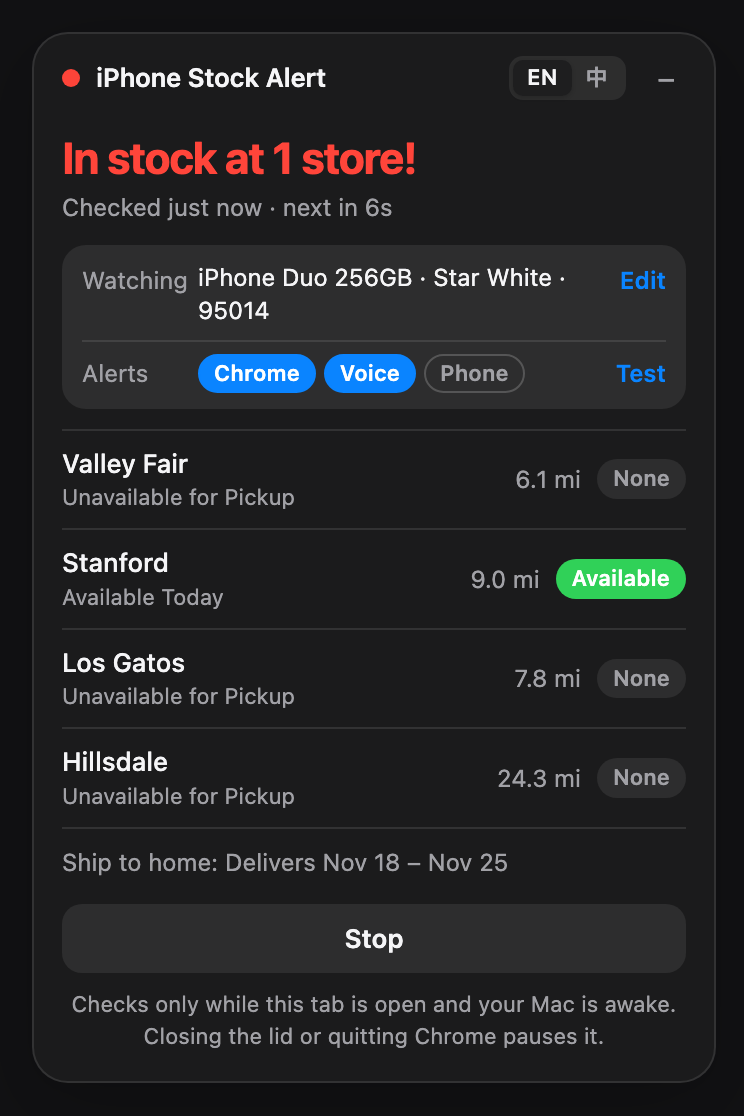
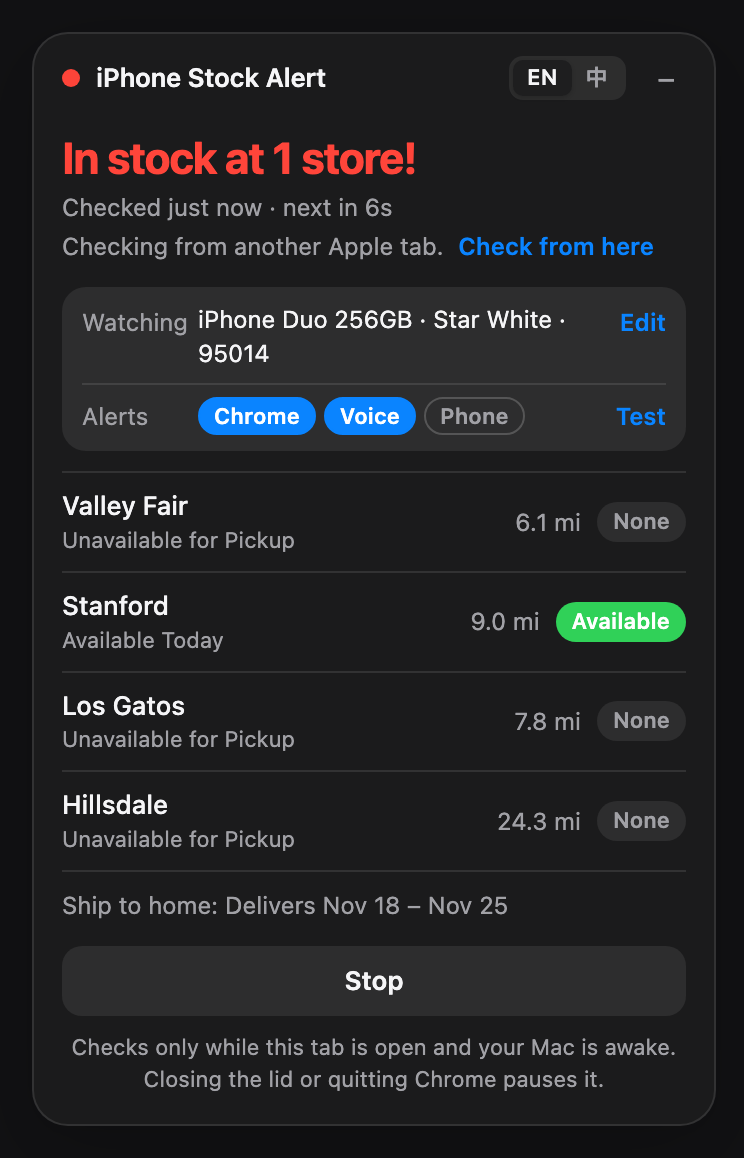
Handle several Apple tabs; use a UUID for the phone topic
- Only one tab runs checks. Other buy pages show the same live results
  and say they're checking from another tab, with "Check from here"
- Closing the checking tab hands over to another open buy page; the
  "monitoring stopped" alert only fires when none is left
- Picking a model on a page moves checking to that page; a page for a
  different iPhone explains what's being watched instead of failing
- The ntfy topic is now iphone-alert-<random UUID>; older short topics
  are replaced when the panel loads

diff --git a/extension/content.js b/extension/content.js
@@ -9,12 +9,15 @@ let models = [];
 const DEFAULT_CHANNELS = { chrome: true, voice: true, phone: false };
 let lang = 'en';
 // lastOk is the latest successful result; result is the latest check, which may have failed.
-const view = { running: false, ringing: false, result: null, lastOk: null, checkedAt: null, okAt: null, nextAt: null, editing: false, testNote: null };
+const view = { running: false, ringing: false, result: null, lastOk: null, checkedAt: null, okAt: null, nextAt: null, editing: false, testNote: null, isWatcher: true };
 
 const STRINGS = {
   en: {
     noPostal: 'Enter your postal code first',
     noModel: 'Pick a model first',
+    otherProduct: (label, here) => `You're watching ${label}, but this page is ${here}. Pick a model here to switch.`,
+    elsewhere: 'Checking from another Apple tab.',
+    watchHere: 'Check from here',
     network: (m) => 'Network error: ' + m,
     http: (s) => `HTTP ${s}` + (s === 541 ? ': temporarily blocked by Apple' : ''),
     notJson: 'Response was not JSON (probably blocked)',
@@ -69,6 +72,9 @@ const STRINGS = {
   zh: {
     noPostal: '请先填邮编',
     noModel: '请先选机型',
+    otherProduct: (label, here) => `你在监控 ${label}，但这个页面是 ${here}。在这里选一个机型即可切换。`,
+    elsewhere: '正在另一个 Apple 页面里检查。',
+    watchHere: '改在这里检查',
     network: (m) => '网络错误：' + m,
     http: (s) => `HTTP ${s}` + (s === 541 ? '，被 Apple 暂时限制' : ''),
     notJson: '返回的不是 JSON（可能被限制）',
@@ -168,6 +174,7 @@ async function pickFromUrl() {
 async function check() {
   const c = await getConfig();
   if (!c.postal) return { ok: false, err: ['noPostal'] };
+  if (c.target && c.target.family !== family) return { ok: false, err: ['otherProduct', c.target.label, familyLabel] };
   const model = currentModel(c);
   const part = model ? model.part : !models.length && c.manualPart;
   if (!part) return { ok: false, err: ['noModel'] };
@@ -270,6 +277,7 @@ root.innerHTML = `
   .srow .v.unset { color: var(--amber); }
   button.link { all: unset; color: var(--blue); font-weight: 600; font-size: 12px; cursor: pointer; padding: 2px 4px; margin-right: -4px; border-radius: 6px; align-self: flex-start; margin-top: 5px; }
   .code button.link { align-self: center; margin-top: 0; }
+  .meta button.link { margin-top: 0; }
   button.link:hover { background: color-mix(in srgb, var(--blue) 10%, transparent); }
   .toggles { display: flex; flex-wrap: wrap; gap: 4px; }
   button.tog { all: unset; padding: 1px 7px; border-radius: 999px; font-size: 11px; font-weight: 600; cursor: pointer;
@@ -338,6 +346,7 @@ root.innerHTML = `
   <div class="body">
     <div class="headline"></div>
     <div class="meta" data-v="times"></div>
+    <div class="meta" data-v="elsewhere" hidden><span data-t="elsewhere"></span> <button class="link" data-a="takeover" data-t="watchHere"></button></div>
     <div class="status">
       <div class="srow">
         <span class="k" data-t="watching"></span><span class="v" data-v="watchText"></span>
@@ -392,11 +401,13 @@ async function render() {
 
   // Status: what is being watched and how alerts are set, always visible.
   const model = currentModel(c);
-  const what = model ? modelLabel(model) : !models.length && c.manualPart ? c.manualPart : null;
+  const elsewhere = !model && c.target && c.target.family !== family && c.target.label; // watching another iPhone
+  const what = model ? `${familyLabel} ${modelLabel(model)}` : elsewhere || (!models.length && c.manualPart ? c.manualPart : null);
   const ready = !!(what && c.postal);
-  $('[data-v=watchText]').textContent = ready ? `${familyLabel} ${what} · ${c.postal}` : t('notSet');
+  $('[data-v=watchText]').textContent = ready ? `${what} · ${c.postal}` : t('notSet');
   $('[data-v=watchText]').classList.toggle('unset', !ready);
   const editing = view.editing || !ready;
+  $('[data-v=elsewhere]').hidden = !(view.running && !view.isWatcher);
   $('[data-v=fields]').hidden = !editing;
   $('[data-a=edit]').textContent = editing ? t('done') : t('edit');
   $('[data-a=edit]').hidden = editing && !ready;
@@ -481,6 +492,8 @@ function renderModelOptions(selected) {
 
 async function initPanel() {
   const c = await getConfig();
+  // Topics made by earlier versions were short enough to guess; replace them.
+  if (c.ntfyTopic && !isStrongTopic(c.ntfyTopic)) await chrome.storage.local.set({ ntfyTopic: randomTopic() });
   view.running = !!c.running;
   $('[data-k=postal]').value = c.postal || '';
   $('[data-k=manualPart]').value = c.manualPart || '';
@@ -489,8 +502,9 @@ async function initPanel() {
   setInterval(() => view.running && render(), 1000);
 }
 
-const randomTopic = () =>
-  'iphone-alert-' + Array.from(crypto.getRandomValues(new Uint8Array(8)), (b) => (b % 36).toString(36)).join('');
+// ntfy topics are public to anyone who knows the name, so the name is a full random UUID.
+const randomTopic = () => 'iphone-alert-' + crypto.randomUUID();
+const isStrongTopic = (topic) => /^iphone-alert-[0-9a-f]{8}-[0-9a-f]{4}-4[0-9a-f]{3}-[89ab][0-9a-f]{3}-[0-9a-f]{12}$/.test(topic);
 
 // Editing settings makes the panel taller; nudge a dragged panel back inside the window.
 function keepInView() {
@@ -535,8 +549,10 @@ root.addEventListener('change', async (e) => {
   if (!k) return;
   const v = e.target.value.trim();
   if (k === 'model') {
-    await chrome.storage.local.set({ target: v ? { family, key: v } : null });
+    const m = models.find((x) => modelKey(x) === v);
+    await chrome.storage.local.set({ target: m ? { family, key: v, label: `${familyLabel} ${modelLabel(m)}` } : null });
     chrome.runtime.sendMessage({ type: 'reset' }); // a new model deserves fresh alerts
+    chrome.runtime.sendMessage({ type: 'takeover' }); // and is checked from the page it was picked on
     view.lastOk = null;
   } else {
     await chrome.storage.local.set({ [k]: v });
@@ -575,6 +591,8 @@ root.addEventListener('click', async (e) => {
     if (!view.running) view.nextAt = null;
     await chrome.storage.local.set({ running: view.running });
     chrome.runtime.sendMessage({ type: view.running ? 'start' : 'stop' });
+  } else if (a === 'takeover') {
+    chrome.runtime.sendMessage({ type: 'takeover' });
   } else if (a === 'edit') {
     view.editing = !view.editing;
   } else if (a === 'test') {
@@ -600,22 +618,27 @@ root.addEventListener('click', async (e) => {
   render();
 });
 
+function showResult(r) {
+  view.result = r;
+  view.checkedAt = Date.now();
+  if (r.ok) {
+    view.lastOk = r;
+    view.okAt = view.checkedAt;
+  }
+  render();
+}
+
 chrome.runtime.onMessage.addListener((msg, _sender, reply) => {
   if (msg.type === 'check') {
     check().then((r) => {
-      view.result = r;
-      view.checkedAt = Date.now();
-      if (r.ok) {
-        view.lastOk = r;
-        view.okAt = view.checkedAt;
-      }
-      render();
+      showResult(r);
       reply(r);
     });
     return true; // async reply
   }
+  if (msg.type === 'result') showResult(msg.r); // checked by another tab
   if (msg.type === 'status') {
-    Object.assign(view, { running: msg.running, nextAt: msg.nextAt });
+    Object.assign(view, { running: msg.running, nextAt: msg.nextAt, isWatcher: msg.watcher });
     render();
   }
   if (msg.type === 'found') startFlash();

diff --git a/extension/background.js b/extension/background.js
@@ -1,6 +1,7 @@
 // Drives the polling loop and sends alerts. Timers live here rather than in the page because
 // Chrome throttles timers in background tabs to once a minute; messages to the tab are not throttled.
 const NTFY = 'https://ntfy.sh/';
+const BUY_PAGES = 'https://www.apple.com/*shop/buy-iphone/*';
 const BASE_MS = 10_000;
 const JITTER_MS = 2_000;
 const MAX_BACKOFF_MS = 5 * 60_000;
@@ -83,7 +84,7 @@ async function alertFound(stores, tabId, model) {
   const tab = await chrome.tabs.get(tabId).catch(() => null);
   const url = tab ? tab.url : '';
 
-  chrome.tabs.sendMessage(tabId, { type: 'found' }).catch(() => {}); // the panel flashes either way
+  broadcast({ type: 'found' }); // every panel flashes either way
   if (channels.chrome) {
     notifyChrome(title, message);
     if (tab) {
@@ -145,10 +146,31 @@ async function testChannel(channel) {
 
 // ---------- polling ----------
 
-// Tells the panel when the next check is.
-function pushStatus(tabId, running, nextAt) {
-  if (tabId == null) return;
-  chrome.tabs.sendMessage(tabId, { type: 'status', running, nextAt }).catch(() => {});
+// One tab (the "watcher", stored as tabId) runs the checks. Every open buy page shows the same
+// panel, so results and status go to all of them.
+const buyTabs = () => chrome.tabs.query({ url: BUY_PAGES }).catch(() => []);
+
+async function broadcast(msg, exceptId) {
+  for (const tab of await buyTabs()) {
+    if (tab.id !== exceptId) chrome.tabs.sendMessage(tab.id, msg).catch(() => {});
+  }
+}
+
+async function statusAll() {
+  const s = await getState();
+  for (const tab of await buyTabs()) {
+    chrome.tabs
+      .sendMessage(tab.id, { type: 'status', running: !!s.running, nextAt: s.running ? s.nextAt : null, watcher: tab.id === s.tabId })
+      .catch(() => {});
+  }
+}
+
+async function makeWatcher(tabId) {
+  await chrome.storage.local.set({ tabId, fails: 0, nextAt: null });
+  chrome.tabs.update(tabId, { autoDiscardable: false }).catch(() => {});
+  const s = await getState();
+  if (s.running) schedule(1_000);
+  statusAll();
 }
 
 function askTab(tabId) {
@@ -171,6 +193,7 @@ async function tick() {
   if (s.tabId == null) {
     badge('?', '#888');
     await chrome.storage.local.set({ nextAt: null });
+    statusAll();
     return; // waits for a 'hello' from an open iPhone buy page
   }
   if (s.nextAt && Date.now() - s.nextAt > GAP_MS) await reportGap(Math.round((Date.now() - s.nextAt) / 60_000));
@@ -181,6 +204,7 @@ async function tick() {
   } catch (e) {
     r = { ok: false, dead: true };
   }
+  if (r && !r.dead) broadcast({ type: 'result', r }, s.tabId);
   const now = Date.now();
   let fails = s.fails || 0;
   let failingSince = s.failingSince || null;
@@ -212,7 +236,7 @@ async function tick() {
   const delay = nextDelay(fails);
   await chrome.storage.local.set({ fails, failingSince, nextAt: Date.now() + delay });
   schedule(delay);
-  pushStatus(s.tabId, true, Date.now() + delay);
+  statusAll();
 }
 
 function badge(text, color) {
@@ -222,16 +246,18 @@ function badge(text, color) {
 
 chrome.runtime.onMessage.addListener((msg, sender, reply) => {
   if (msg.type === 'hello' && sender.tab) {
-    chrome.tabs.update(sender.tab.id, { autoDiscardable: false });
-    chrome.storage.local.set({ tabId: sender.tab.id }).then(async () => {
-      const s = await getState();
-      if (s.running && !timer) schedule(1_000);
-      pushStatus(sender.tab.id, !!s.running, null);
+    // A new buy page only takes over when no other tab is checking.
+    getState().then(async (s) => {
+      const current = s.tabId != null && (await chrome.tabs.get(s.tabId).catch(() => null));
+      if (!current || s.tabId === sender.tab.id) return makeWatcher(sender.tab.id);
+      statusAll();
     });
+  } else if (msg.type === 'takeover' && sender.tab) {
+    makeWatcher(sender.tab.id);
   } else if (msg.type === 'start') {
     chrome.storage.local
       .set({ running: true, fails: 0, failingSince: null, alerted: [], lastReloadAt: Date.now(), nextAt: null, lastGap: null })
-      .then(() => schedule(0));
+      .then(() => (sender.tab ? makeWatcher(sender.tab.id) : schedule(0)));
   } else if (msg.type === 'stop') {
     clearTimeout(timer);
     timer = null;
@@ -239,11 +265,12 @@ chrome.runtime.onMessage.addListener((msg, sender, reply) => {
     chrome.power.releaseKeepAwake();
     stopVoice();
     badge('', '#888');
-    if (sender.tab) pushStatus(sender.tab.id, false, null);
+    statusAll();
   } else if (msg.type === 'reset') {
     chrome.storage.local.set({ alerted: [], fails: 0 }).then(() => timer && schedule(1_000));
   } else if (msg.type === 'ack') {
     stopVoice();
+    broadcast({ type: 'ack' }, sender.tab && sender.tab.id);
   } else if (msg.type === 'test') {
     testChannel(msg.channel).then(reply);
     return true; // async reply
@@ -259,13 +286,16 @@ chrome.notifications.onClicked.addListener(async () => {
   if (tab) {
     chrome.windows.update(tab.windowId, { focused: true });
     chrome.tabs.update(tabId, { active: true });
-    chrome.tabs.sendMessage(tabId, { type: 'ack' }).catch(() => {});
   }
+  broadcast({ type: 'ack' });
 });
 
 chrome.tabs.onRemoved.addListener(async (tabId) => {
   const s = await getState();
   if (tabId !== s.tabId) return;
+  // Hand over to another open buy page if there is one; only warn when none is left.
+  const next = (await buyTabs()).find((tab) => tab.id !== tabId);
+  if (next) return makeWatcher(next.id);
   await chrome.storage.local.set({ tabId: null, nextAt: null });
   if (s.running) reportTabClosed();
 });
